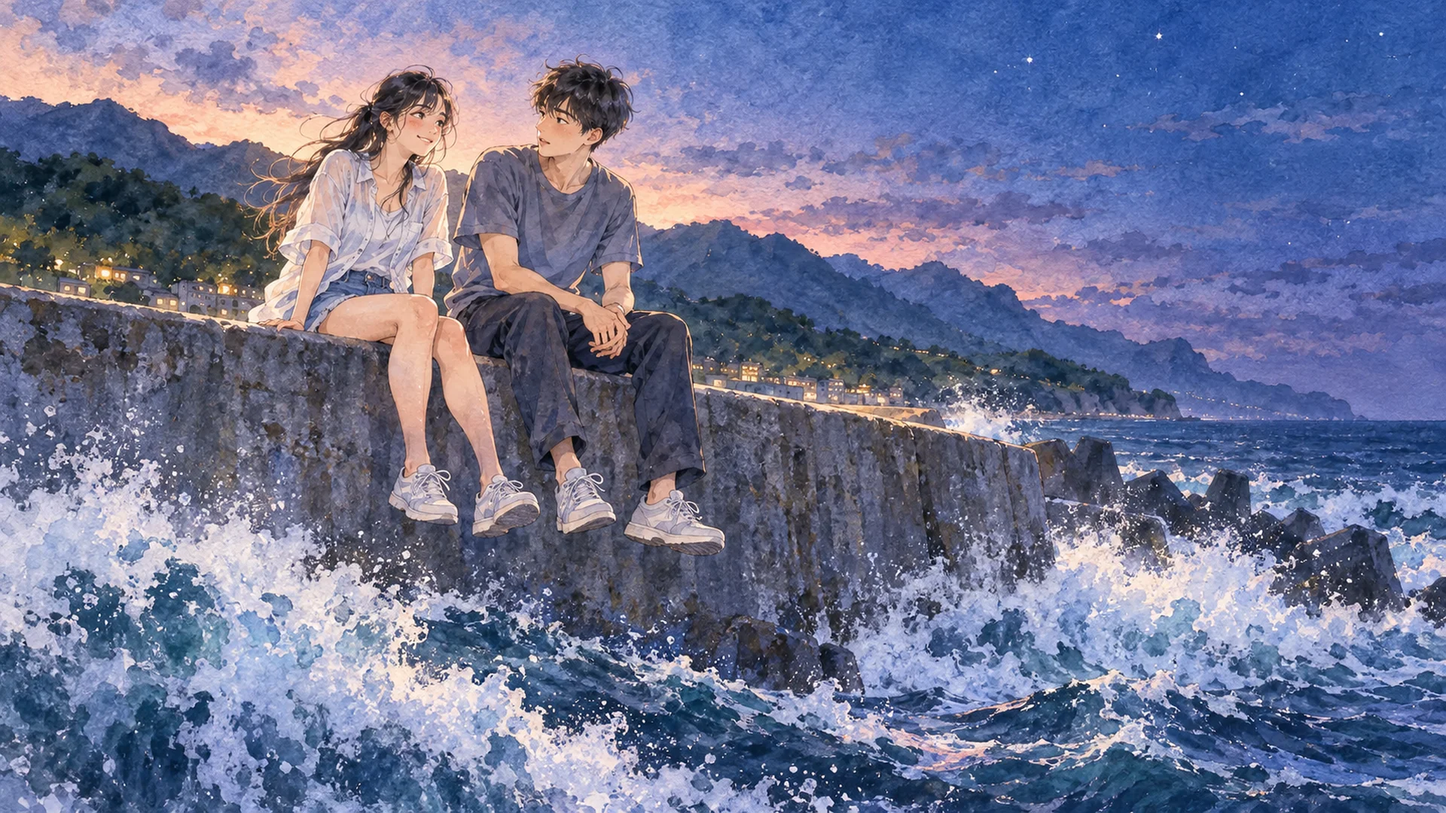
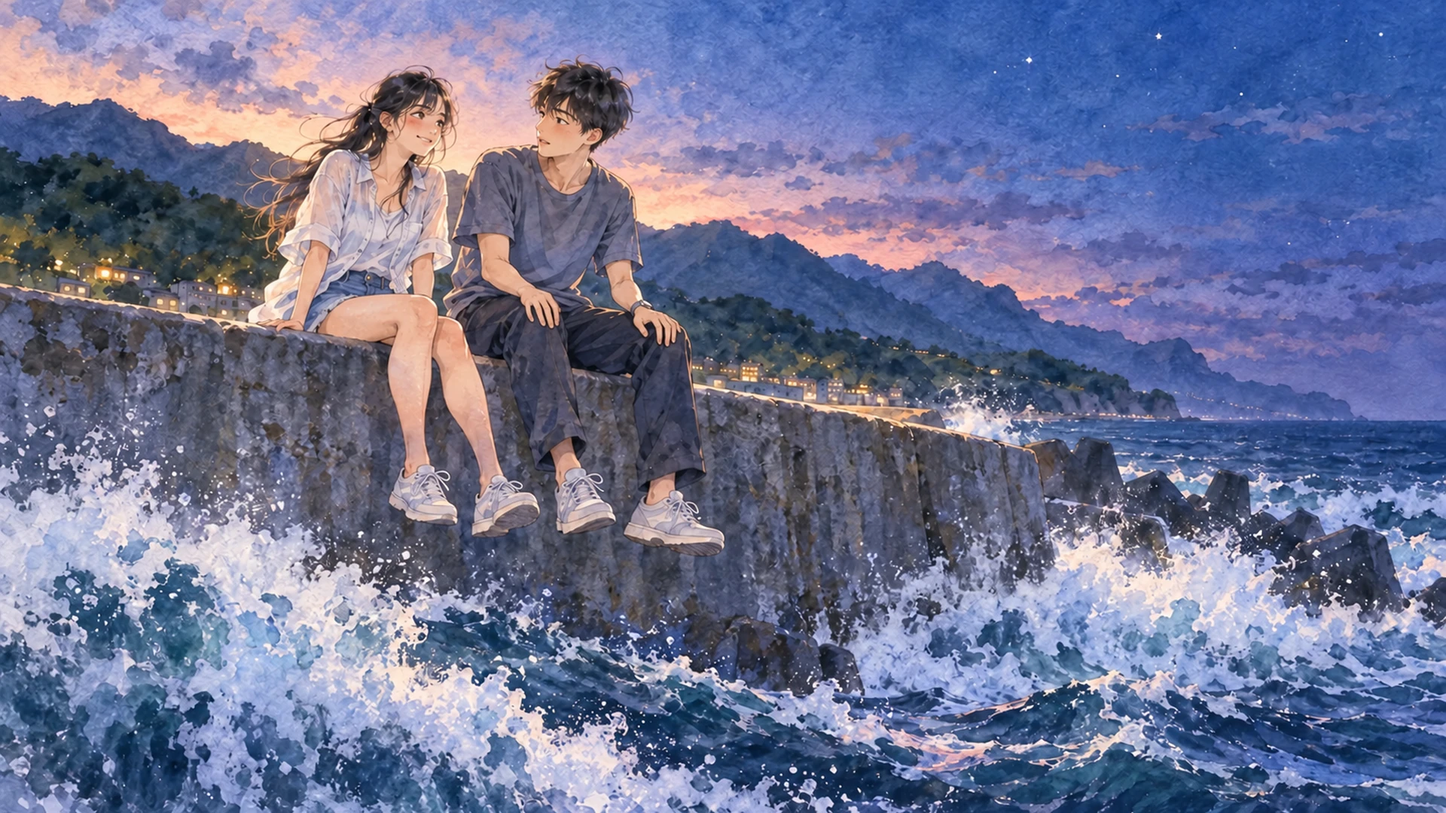
防波堤 CG：重畫程徹的手（原本雙手交扣畫壞，改成兩手各放膝上）

diff --git a/art/prompts.md b/art/prompts.md
@@ -319,6 +319,14 @@ Painting style: delicate transparent watercolor on textured cold-press paper, ex
 Wide 16:9 landscape composition. Keep all important subjects and faces in the upper two thirds of the frame; the bottom third should be calm, low-detail ground or background (a dialogue box will cover it). Correct anatomy: each hand has exactly five fingers, left and right hands on the correct sides. No text, no letters, no numbers, no logos, no brand names, no signage, no watermark.
 ```
 
+- 2026-10-29 修手：原圖程徹雙手交扣、手指糊成一團。用 .11 codex-image 整張精修（原圖當 Image 1，只改手），改成兩手分開各放大腿近膝處；產四張（手放膝上、手撐堤邊各兩張），作者選手放膝上第 2 張。輸出 1536x1024，置中裁成 16:9 再放大到 1920x1080。修圖提示詞：
+
+```
+This is a precise retouch edit. Image 1 is the original painting. Keep EVERYTHING exactly the same — composition, both people, faces, hair, clothes, shoes, the seawall, the waves, the sky, the mountains, the watercolor style and paper texture, the wide 16:9 framing. Only change the one thing described below.
+
+The young man on the right (short black hair, grey T-shirt, dark pants) currently has his two hands clasped together over his knee, and the fingers are tangled and malformed. Redraw ONLY his hands and forearms: his two hands are now SEPARATE and do not touch each other. The hand on the viewer's left side rests relaxed on top of his own left thigh near the knee, and the hand on the viewer's right side rests relaxed on top of his own right thigh near the knee, each palm down, fingers loosely together. Each hand clearly shows exactly five natural fingers including one thumb, correct male hand anatomy, wrist watch stays on the same wrist. Same watercolor painting style as the rest of Image 1, soft transparent washes, no sharp digital rendering. No text, no watermark.
+```
+
 ## cg/cg-kitchen.webp
 
 - 參考圖：style-b（image 1，畫風錨）、lin-b（image 2，林向晚）、cheng-a（image 3，程徹）
